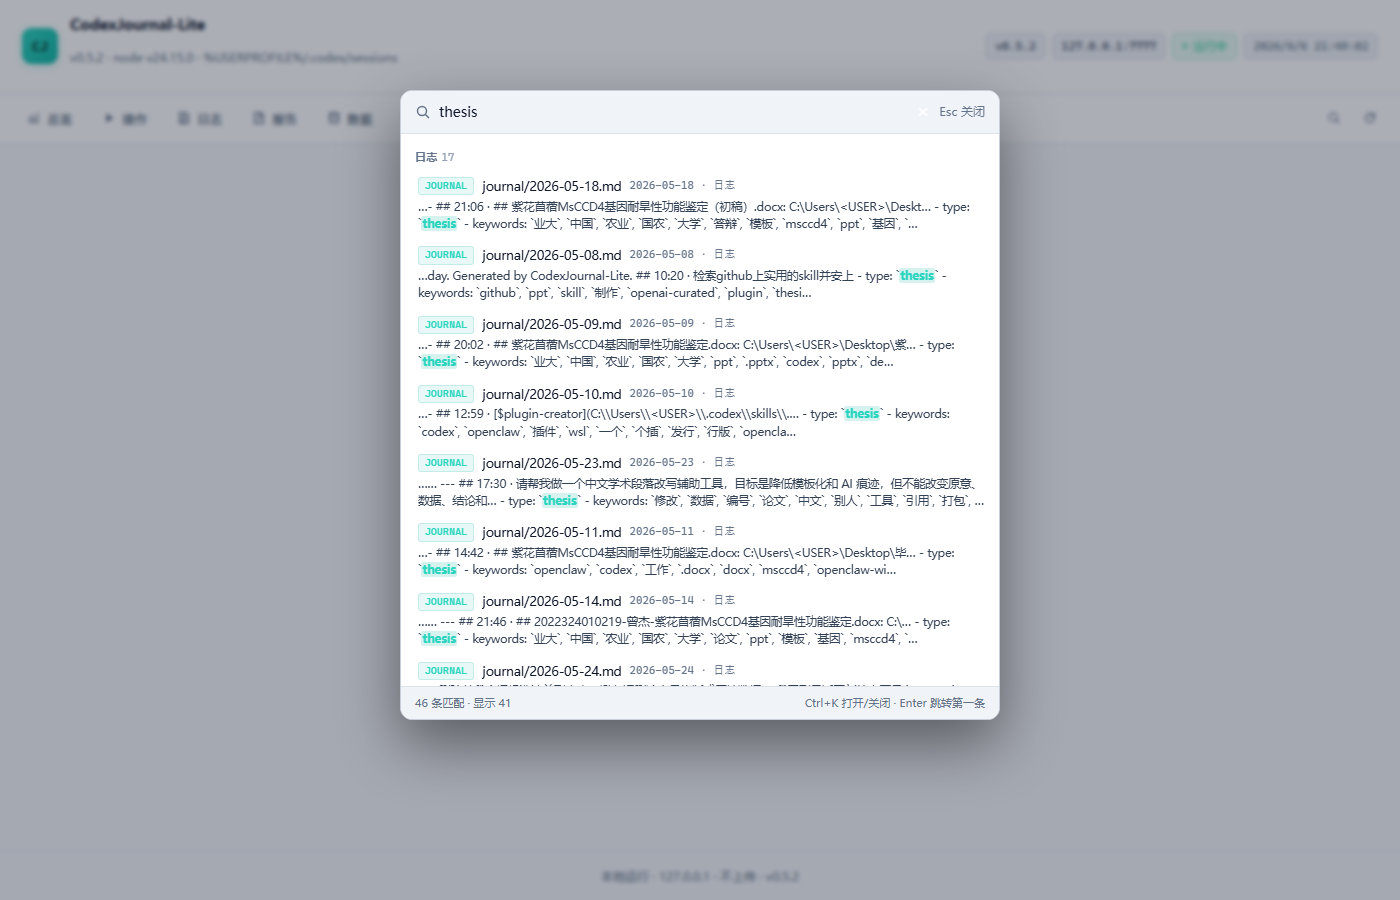
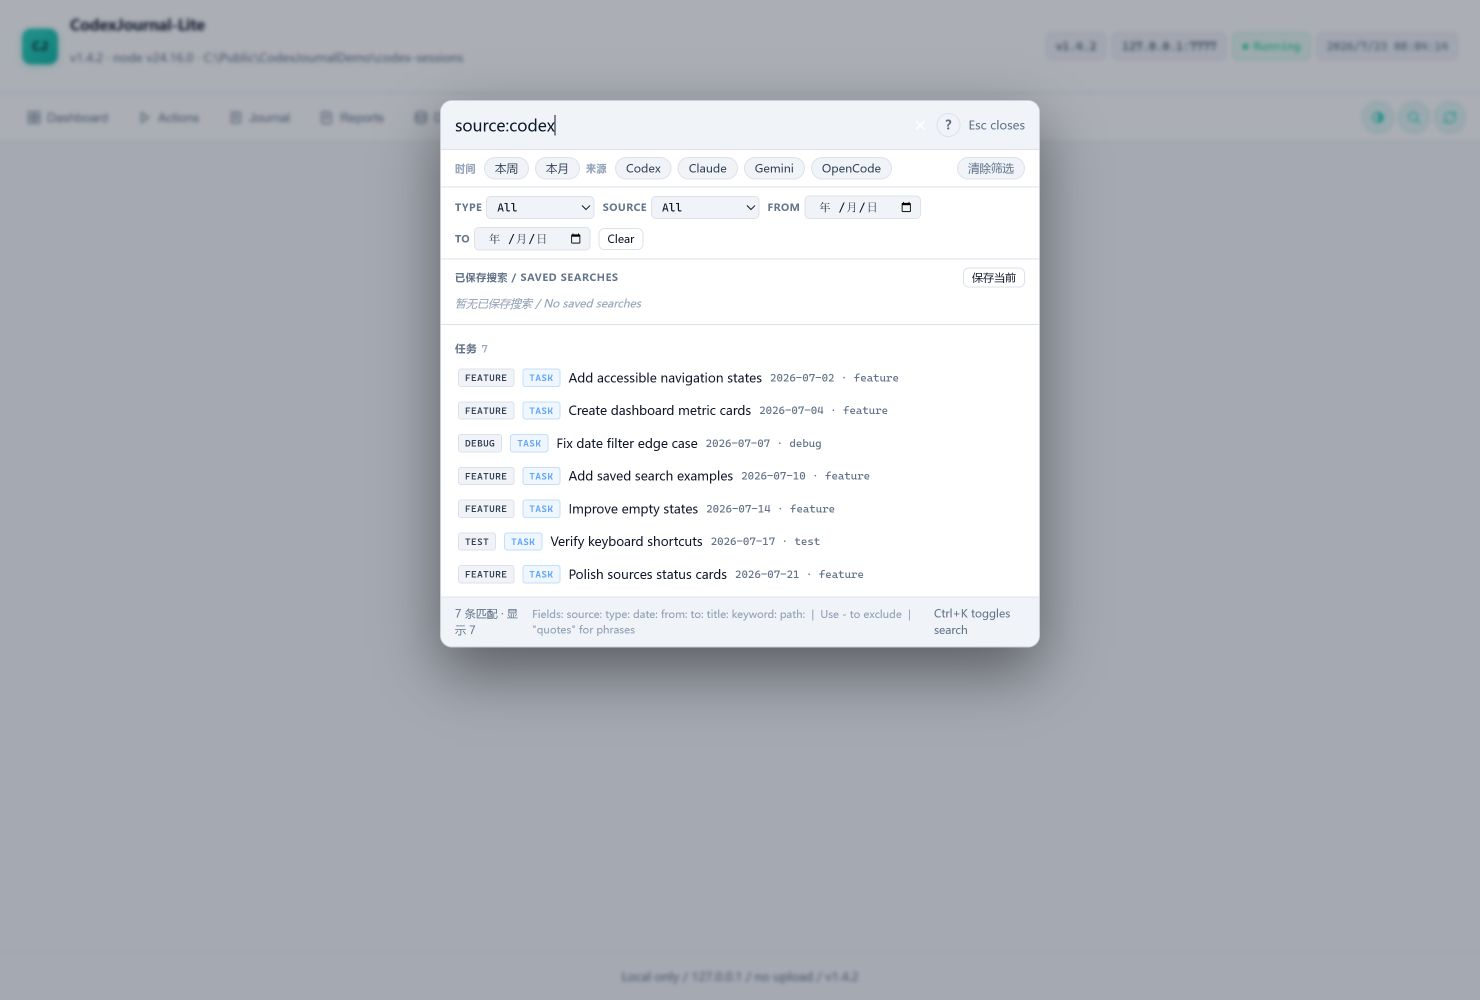
docs: replace screenshots with synthetic public demo

diff --git a/scripts/create-public-demo-workspace.js b/scripts/create-public-demo-workspace.js
@@ -1,0 +1,152 @@
+'use strict';
+
+const fs = require('fs');
+const path = require('path');
+
+function parseArgs(argv) {
+  const index = argv.indexOf('--out');
+  if (index < 0 || !argv[index + 1]) {
+    throw new Error('Usage: node scripts/create-public-demo-workspace.js --out <empty-directory>');
+  }
+  return { outDir: path.resolve(argv[index + 1]) };
+}
+
+function writeJson(filePath, value) {
+  fs.mkdirSync(path.dirname(filePath), { recursive: true });
+  fs.writeFileSync(filePath, JSON.stringify(value, null, 2) + '\n', 'utf8');
+}
+
+function writeText(filePath, value) {
+  fs.mkdirSync(path.dirname(filePath), { recursive: true });
+  fs.writeFileSync(filePath, value.replace(/\r?\n/g, '\n'), 'utf8');
+}
+
+function makeTask(spec, index) {
+  const day = String(spec.day).padStart(2, '0');
+  const id = `demo_task_${String(index + 1).padStart(3, '0')}`;
+  return {
+    id,
+    date: `2026-07-${day}`,
+    time: spec.time,
+    source: spec.source,
+    projectPath: `C:\\Demo\\${spec.project}`,
+    title: spec.title,
+    taskType: spec.type,
+    keywords: spec.keywords,
+    userSummary: spec.user,
+    assistantSummary: spec.assistant,
+    rawFilePath: `C:\\Demo\\Sessions\\${id}.jsonl`,
+    messageCount: spec.messages,
+    firstTimestamp: `2026-07-${day}T${spec.time}:00.000Z`,
+    lastTimestamp: `2026-07-${day}T${spec.time}:45.000Z`
+  };
+}
+
+const taskSpecs = [
+  { day: 2, time: '09:15', source: 'codex-sessions', project: 'Project-Atlas', title: 'Add accessible navigation states', type: 'feature', keywords: ['accessibility', 'navigation', 'ui'], user: 'Add clear keyboard focus states to the demo navigation.', assistant: 'Implemented focus states and added synthetic UI checks.', messages: 18 },
+  { day: 3, time: '14:20', source: 'claude-code', project: 'Project-Borealis', title: 'Review API error boundaries', type: 'review', keywords: ['api', 'errors', 'review'], user: 'Review error responses for consistency using demo fixtures.', assistant: 'Documented inconsistencies and proposed bounded error categories.', messages: 24 },
+  { day: 4, time: '10:05', source: 'codex-sessions', project: 'Project-Atlas', title: 'Create dashboard metric cards', type: 'feature', keywords: ['dashboard', 'metrics', 'css'], user: 'Create four metric cards using synthetic counts.', assistant: 'Added responsive cards and visual regression assertions.', messages: 31 },
+  { day: 5, time: '16:40', source: 'idea-ai', project: 'Project-Cascade', title: 'Explain the indexing pipeline', type: 'explain', keywords: ['index', 'pipeline', 'docs'], user: 'Explain the sample indexing pipeline for new contributors.', assistant: 'Produced an architecture note with a deterministic example.', messages: 12 },
+  { day: 7, time: '11:10', source: 'codex-sessions', project: 'Project-Atlas', title: 'Fix date filter edge case', type: 'debug', keywords: ['date', 'filter', 'test'], user: 'Fix the inclusive end-date behavior in the demo search.', assistant: 'Corrected the boundary and added regression coverage.', messages: 22 },
+  { day: 8, time: '13:30', source: 'gemini-cli', project: 'Project-Delta', title: 'Draft onboarding checklist', type: 'document', keywords: ['onboarding', 'checklist', 'docs'], user: 'Draft a concise onboarding checklist with no environment-specific paths.', assistant: 'Created a platform-neutral onboarding checklist.', messages: 16 },
+  { day: 9, time: '15:25', source: 'claude-code', project: 'Project-Borealis', title: 'Refactor result pagination', type: 'refactor', keywords: ['pagination', 'api', 'refactor'], user: 'Refactor pagination while preserving the public response shape.', assistant: 'Extracted pagination helpers and kept compatibility tests green.', messages: 28 },
+  { day: 10, time: '09:50', source: 'codex-sessions', project: 'Project-Atlas', title: 'Add saved search examples', type: 'feature', keywords: ['search', 'filters', 'examples'], user: 'Add synthetic saved-search examples for documentation.', assistant: 'Added examples for source, type and date filters.', messages: 20 },
+  { day: 11, time: '17:05', source: 'opencode', project: 'Project-Echo', title: 'Check cross-platform paths', type: 'test', keywords: ['windows', 'linux', 'paths'], user: 'Check path normalization with synthetic Windows and Linux fixtures.', assistant: 'Verified normalization without using real user directories.', messages: 19 },
+  { day: 12, time: '10:35', source: 'idea-ai', project: 'Project-Cascade', title: 'Document source adapters', type: 'document', keywords: ['sources', 'adapters', 'privacy'], user: 'Document adapter boundaries and privacy expectations.', assistant: 'Added a source matrix and explicit local-only guarantees.', messages: 14 },
+  { day: 14, time: '14:15', source: 'codex-sessions', project: 'Project-Atlas', title: 'Improve empty states', type: 'feature', keywords: ['empty-state', 'ui', 'copy'], user: 'Improve empty-state copy for the demo dashboard.', assistant: 'Added concise bilingual empty states and tests.', messages: 17 },
+  { day: 15, time: '16:00', source: 'claude-code', project: 'Project-Borealis', title: 'Audit public package contents', type: 'review', keywords: ['package', 'privacy', 'audit'], user: 'Audit a synthetic public package for forbidden files.', assistant: 'Confirmed the fixture package contains only public demo material.', messages: 26 },
+  { day: 16, time: '11:45', source: 'gemini-cli', project: 'Project-Delta', title: 'Summarize weekly progress', type: 'general', keywords: ['summary', 'weekly', 'progress'], user: 'Summarize the synthetic weekly activity.', assistant: 'Prepared a short summary using only demo metrics.', messages: 11 },
+  { day: 17, time: '13:10', source: 'codex-sessions', project: 'Project-Atlas', title: 'Verify keyboard shortcuts', type: 'test', keywords: ['keyboard', 'shortcuts', 'accessibility'], user: 'Verify documented keyboard shortcuts in the local dashboard.', assistant: 'Validated shortcut behavior with browser automation.', messages: 21 },
+  { day: 18, time: '09:30', source: 'opencode', project: 'Project-Echo', title: 'Add deterministic export fixture', type: 'feature', keywords: ['export', 'fixture', 'deterministic'], user: 'Add a deterministic export example without personal data.', assistant: 'Created a stable fixture and hash-based assertions.', messages: 23 },
+  { day: 20, time: '15:50', source: 'claude-code', project: 'Project-Borealis', title: 'Review release checklist', type: 'review', keywords: ['release', 'checklist', 'security'], user: 'Review the release checklist for missing privacy checks.', assistant: 'Added screenshot review and package boundary checks.', messages: 18 },
+  { day: 21, time: '10:20', source: 'codex-sessions', project: 'Project-Atlas', title: 'Polish sources status cards', type: 'feature', keywords: ['sources', 'status', 'ui'], user: 'Polish source status cards using placeholder directories.', assistant: 'Improved card hierarchy without exposing local paths.', messages: 25 },
+  { day: 22, time: '14:40', source: 'idea-ai', project: 'Project-Cascade', title: 'Prepare public demo screenshots', type: 'document', keywords: ['screenshots', 'demo', 'privacy'], user: 'Prepare screenshots from a fully synthetic workspace.', assistant: 'Generated a synthetic workspace and completed visual privacy review.', messages: 20 }
+];
+
+function main() {
+  const { outDir } = parseArgs(process.argv.slice(2));
+  if (fs.existsSync(outDir) && fs.readdirSync(outDir).length > 0) {
+    throw new Error(`Refusing to overwrite non-empty output directory: ${outDir}`);
+  }
+  fs.mkdirSync(outDir, { recursive: true });
+
+  const tasks = taskSpecs.map(makeTask);
+  const byDay = {};
+  const byType = {};
+  const topKeywords = {};
+  let messages = 0;
+  for (const task of tasks) {
+    byDay[task.date] = (byDay[task.date] || 0) + 1;
+    byType[task.taskType] = (byType[task.taskType] || 0) + 1;
+    messages += task.messageCount;
+    for (const keyword of task.keywords) topKeywords[keyword] = (topKeywords[keyword] || 0) + 1;
+  }
+
+  writeJson(path.join(outDir, 'package.json'), { name: 'codexjournal-lite-public-demo', version: '1.4.2' });
+  writeJson(path.join(outDir, 'config.json'), {
+    sessionsDir: 'C:\\Public\\CodexJournalDemo\\codex-sessions',
+    journalDir: 'journal',
+    dataDir: 'data',
+    reportsDir: 'reports',
+    timezone: 'UTC',
+    sources: [
+      { name: 'codex', type: 'codex', enabled: true, archive: true, sessionsDir: 'C:\\Public\\CodexJournalDemo\\codex-sessions' },
+      { name: 'claude-code', type: 'claude', enabled: true, archive: true, sessionsDir: 'C:\\Public\\CodexJournalDemo\\claude-projects' },
+      { name: 'idea-ai', type: 'idea', enabled: true, archive: false, logDirs: ['C:\\Public\\CodexJournalDemo\\idea-logs'] }
+    ],
+    redactPatterns: [],
+    plugins: []
+  });
+  writeJson(path.join(outDir, 'data', 'tasks.json'), {
+    generatedAt: '2026-07-22T15:00:00.000Z',
+    sessionsDir: 'C:\\Public\\CodexJournalDemo\\codex-sessions',
+    tasks
+  });
+  writeJson(path.join(outDir, 'data', 'stats.json'), {
+    generatedAt: '2026-07-22T15:00:00.000Z',
+    totals: { tasks: tasks.length, messages, days: Object.keys(byDay).length },
+    byDay,
+    byType,
+    topKeywords
+  });
+  writeJson(path.join(outDir, 'data', 'patterns.json'), {
+    generatedAt: '2026-07-22T15:00:00.000Z',
+    note: 'Synthetic public demo data only.'
+  });
+  writeText(path.join(outDir, 'data', 'search.md'), '# Public demo search index\n\nSynthetic content only.\n');
+
+  const journalGroups = new Map();
+  for (const task of tasks) {
+    if (!journalGroups.has(task.date)) journalGroups.set(task.date, []);
+    journalGroups.get(task.date).push(task);
+  }
+  for (const [date, items] of journalGroups) {
+    const sections = items.map(task => [
+      `## ${task.time} · ${task.title}`,
+      '',
+      `- type: ${task.taskType}`,
+      `- source: ${task.source}`,
+      `- project: ${task.projectPath}`,
+      `- messages: ${task.messageCount}`,
+      '',
+      `**User**: ${task.userSummary}`,
+      '',
+      `**Assistant**: ${task.assistantSummary}`
+    ].join('\n'));
+    writeText(path.join(outDir, 'journal', `${date}.md`), `# ${date}\n\n> Synthetic public demo journal.\n\n${sections.join('\n\n')}\n`);
+  }
+
+  writeText(path.join(outDir, 'reports', 'doctor.md'), '# Doctor\n\n| status | count |\n| --- | ---: |\n| pass | 12 |\n| fail | 0 |\n');
+  writeText(path.join(outDir, 'reports', 'verify-full.log'), 'passed: 12\nfailed: 0\n');
+  writeText(path.join(outDir, 'reports', 'README.md'), '# Public demo reports\n\nSynthetic content only.\n');
+  writeText(path.join(outDir, 'dist', 'public-demo.txt'), 'Synthetic artifact placeholder.\n');
+
+  process.stdout.write(JSON.stringify({ ok: true, outDir, tasks: tasks.length, days: Object.keys(byDay).length }) + '\n');
+}
+
+try {
+  main();
+} catch (error) {
+  process.stderr.write(String(error && error.message ? error.message : error) + '\n');
+  process.exitCode = 1;
+}

diff --git a/README.md b/README.md
@@ -67,15 +67,19 @@ per-source details.
 
 ## Screenshots
 
-> **Note:** The screenshots below show the v0.5.2-era UI. The current v1.4.x Dashboard includes additional summary cards (weekly stats, streak, source distribution, verify status), project activity panel, enhanced search with help panel and filter chips, and task detail with copy-JSON support. Updated screenshots will be provided in a future release.
+> Screenshots below show the v1.4.2 Dashboard with KPI summary cards, daily activity heatmap, task type distribution, top keywords, recent activity, and project activity panel.
 
-| Dashboard (v0.5.2 preview) | Search (v0.5.2 preview) |
+| Dashboard Overview | Search with Field Syntax |
 | --- | --- |
 | ![Dashboard overview](docs/screenshots/01-dashboard.png) | ![Search view](docs/screenshots/02-search.png) |
 
-| Data filter (v0.5.2 preview) | Dark search (v0.5.2 preview) |
+| Journal Browser | Data & Task List |
 | --- | --- |
-| ![Data filter](docs/screenshots/03-data-filter.png) | ![Dark search view](docs/screenshots/04-search-dark.png) |
+| ![Journal](docs/screenshots/03-journal.png) | ![Data tasks](docs/screenshots/04-data-tasks.png) |
+
+| Sources Diagnostics | | |
+| --- | --- | --- |
+| ![Sources](docs/screenshots/05-sources.png) | | |
 
 ## Privacy Model
 

diff --git a/docs/screenshots/README.md b/docs/screenshots/README.md
@@ -1,0 +1,31 @@
+# Public screenshots
+
+The PNG files in this directory must be generated from a fully synthetic workspace. Never capture documentation screenshots from a real CodexJournal archive or enabled local source directory.
+
+Generate a clean demo workspace outside the repository:
+
+```powershell
+npm.cmd run create:public-demo -- --out C:\Public\CodexJournalDemoWorkspace
+$env:PORT = '17777'
+node console/server.js --root C:\Public\CodexJournalDemoWorkspace
+```
+
+Before approving replacement screenshots, inspect every image at full resolution for:
+
+- real usernames or home directories;
+- real workspace, session, attachment, or source paths;
+- share links, session identifiers, account identifiers, or tokens;
+- real task titles, prompts, assistant output, or journal text;
+- browser, terminal, or notification overlays.
+
+After manual review, update `approved-manifest.json` with the five SHA-256 values and run:
+
+```powershell
+npm.cmd run test:screenshots
+npm.cmd run package:public
+npm.cmd run verify:public-zip
+npm.cmd pack --dry-run
+```
+
+The hash manifest prevents an unreviewed screenshot replacement from entering the public ZIP or npm package. It does not replace full-resolution human review.
+
